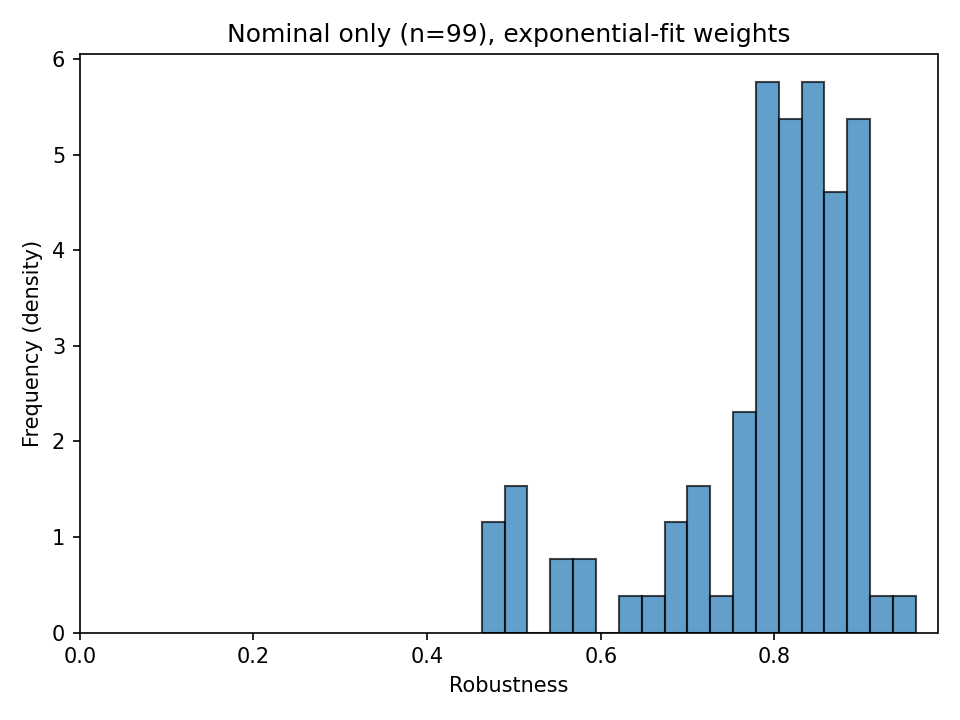
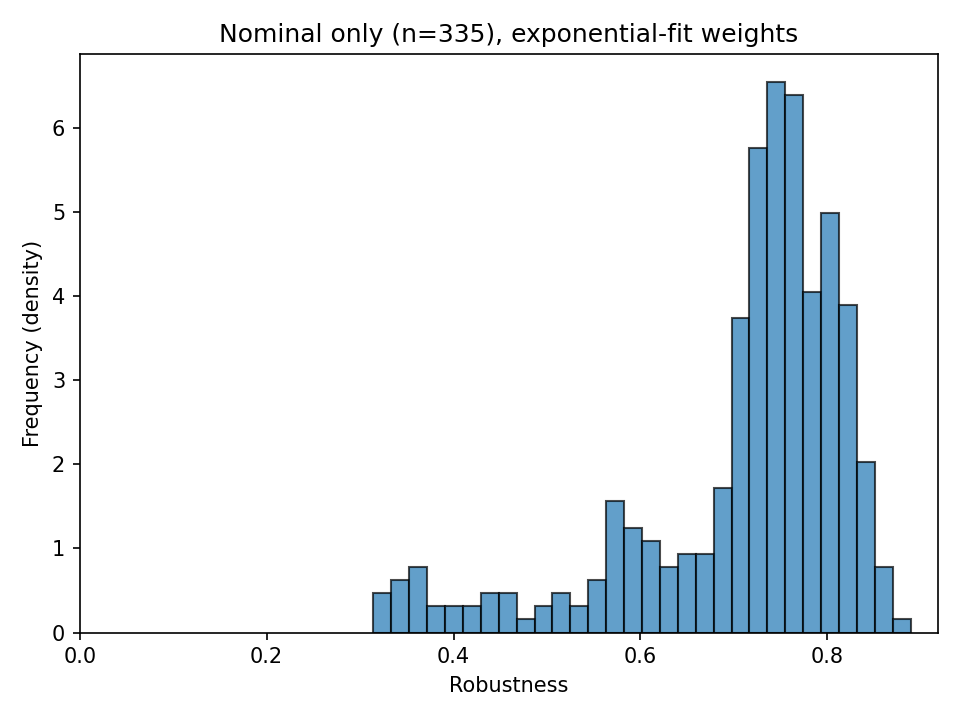
robustness small fix

Changed region(s): [[0.375, 0.0917, 0.9688, 0.9167], [0.2188, 0.0306, 0.8438, 0.0611], [0.25, 0.8861, 0.2812, 0.9167]]

diff --git a/src/robustness_optimize.py b/src/robustness_optimize.py
@@ -108,25 +108,33 @@ def optimize_weights_for_exponential(
     min_dist_scale=MIN_DIST_SCALE,
     jerk_scale=JERK_SCALE,
     brake_severity_scale=BRAKE_SEVERITY_SCALE,
-    n_restarts=12,
+    n_restarts=20,
     seed=None,
     min_weight=0.05,
+    min_spread=0.25,
+    loss_type="cdf",
 ):
-    """Fit weights so nominal robustness histogram is exponential-shaped.
+    """Fit weights so nominal robustness distribution is exponential-shaped.
 
-    Minimizes MSE between binned robustness and a truncated exponential
-    CDF. Uses multiple random restarts; with seed for reproducibility.
+    By default uses CDF-based loss (smoother than bin-count MSE) and
+    penalizes solutions with score range below min_spread so the
+    optimizer does not collapse to a narrow band.
 
     Args:
         nominal_metrics: List of trajectory_metrics dicts (success=1).
         lam: Exponential rate (higher => more mass at high robustness).
-        num_bins: Number of histogram bins on [0, 1].
+        num_bins: Number of histogram bins / CDF points (default 10).
         min_dist_scale: Passed to compute_robustness.
         jerk_scale: Passed to compute_robustness.
         brake_severity_scale: Passed to compute_robustness.
-        n_restarts: Number of random initial weight vectors (default 12).
+        n_restarts: Number of random initial weight vectors (default 20).
         seed: Optional RNG seed for restarts.
         min_weight: Minimum per-component weight (default 0.05).
+        min_spread: Minimum desired range (max-min) of scores (default 0.25).
+            Penalty added to loss when range is below this.
+        loss_type: "cdf" (default) or "bins". "cdf" = MSE between
+            empirical and target CDF at bin edges (smoother). "bins" =
+            MSE between bin proportions and target bin probabilities.
 
     Returns:
         Tuple (weights_dict, loss, scores_array).
@@ -135,9 +143,10 @@ def optimize_weights_for_exponential(
 
     rng = np.random.default_rng(seed)
     edges = np.linspace(0, 1, num_bins + 1)
-    target_props = np.diff(exponential_cdf(edges, lam))
+    target_cdf_at_edges = exponential_cdf(edges, lam)
+    target_bin_props = np.diff(target_cdf_at_edges)
 
-    def histogram_mse(x):
+    def loss(x):
         w = weights_from_vector(x)
         scores = _scores_for_weights(
             nominal_metrics,
@@ -146,12 +155,19 @@ def optimize_weights_for_exponential(
             jerk_scale,
             brake_severity_scale,
         )
-        counts, _ = np.histogram(scores, bins=edges)
-        emp_props = counts / max(scores.size, 1)
-        mse = np.sum((emp_props - target_props) ** 2)
-        rng_scores = float(np.ptp(scores))
-        if rng_scores < 0.15:
-            mse += 2.0 * (0.15 - rng_scores)
+        n = max(scores.size, 1)
+        ptp_scores = float(np.ptp(scores))
+
+        if loss_type == "cdf":
+            emp_cdf = np.array([np.sum(scores <= e) / n for e in edges])
+            mse = np.mean((emp_cdf - target_cdf_at_edges) ** 2)
+        else:
+            counts, _ = np.histogram(scores, bins=edges)
+            emp_props = counts / n
+            mse = np.sum((emp_props - target_bin_props) ** 2)
+
+        if ptp_scores < min_spread:
+            mse += 3.0 * (min_spread - ptp_scores)
         return mse
 
     bounds = weight_bounds(min_weight)
@@ -167,7 +183,7 @@ def optimize_weights_for_exponential(
 
     for x0 in starts:
         result = minimize(
-            histogram_mse,
+            loss,
             x0,
             method="SLSQP",
             bounds=bounds,

diff --git a/src/plot_robustness_histogram.py b/src/plot_robustness_histogram.py
@@ -22,7 +22,7 @@ from src.robustness import (
 )
 from src.robustness_optimize import optimize_weights_for_exponential
 
-NUM_ENVIRONMENTS = 30
+NUM_ENVIRONMENTS = 100
 NUM_TRAJECTORIES = 5
 MODEL_PATH = "roundabout_dqn/model"
 # Fixed seed for reproducible rollouts and (with --optimize) optimizer restarts
@@ -60,6 +60,19 @@ if __name__ == "__main__":
         metavar="W",
         help="Minimum weight per component when optimizing (default 0.05); use 0 to allow near-zero weights",
     )
+    parser.add_argument(
+        "--min-spread",
+        type=float,
+        default=0.25,
+        metavar="S",
+        help="Minimum score range to encourage when optimizing (default 0.25); raises loss if range is smaller",
+    )
+    parser.add_argument(
+        "--loss",
+        choices=("cdf", "bins"),
+        default="cdf",
+        help="Loss for exponential fit: cdf (default, smoother) or bins (histogram proportions)",
+    )
     args = parser.parse_args()
 
     np.random.seed(SEED)
@@ -84,14 +97,21 @@ if __name__ == "__main__":
 
     if args.optimize:
         weights, loss, nominal_scores = optimize_weights_for_exponential(
-            nominal_metrics, lam=args.lam, min_weight=args.min_weight, seed=SEED
+            nominal_metrics,
+            lam=args.lam,
+            min_weight=args.min_weight,
+            min_spread=args.min_spread,
+            loss_type=args.loss,
+            seed=SEED,
         )
         nominal_scores = list(nominal_scores)
         print("Optimized weights (exponential-shaped distribution):")
         for k, v in weights.items():
             print(f"  {k}: {v:.4f}")
-        print(f"  Histogram MSE to target (nominals): {loss:.6f}")
+        print(f"  Loss (CDF MSE to exponential target): {loss:.6f}")
         print(f"  Nominal robustness: mean={np.mean(nominal_scores):.4f}, std={np.std(nominal_scores):.4f}, range=[{np.min(nominal_scores):.4f}, {np.max(nominal_scores):.4f}]")
+        if loss > 0.05:
+            print("  (High loss: nominal metrics may have little spread; try --min-weight 0 or more trajectories.)")
     else:
         weights = DEFAULT_WEIGHTS
 
